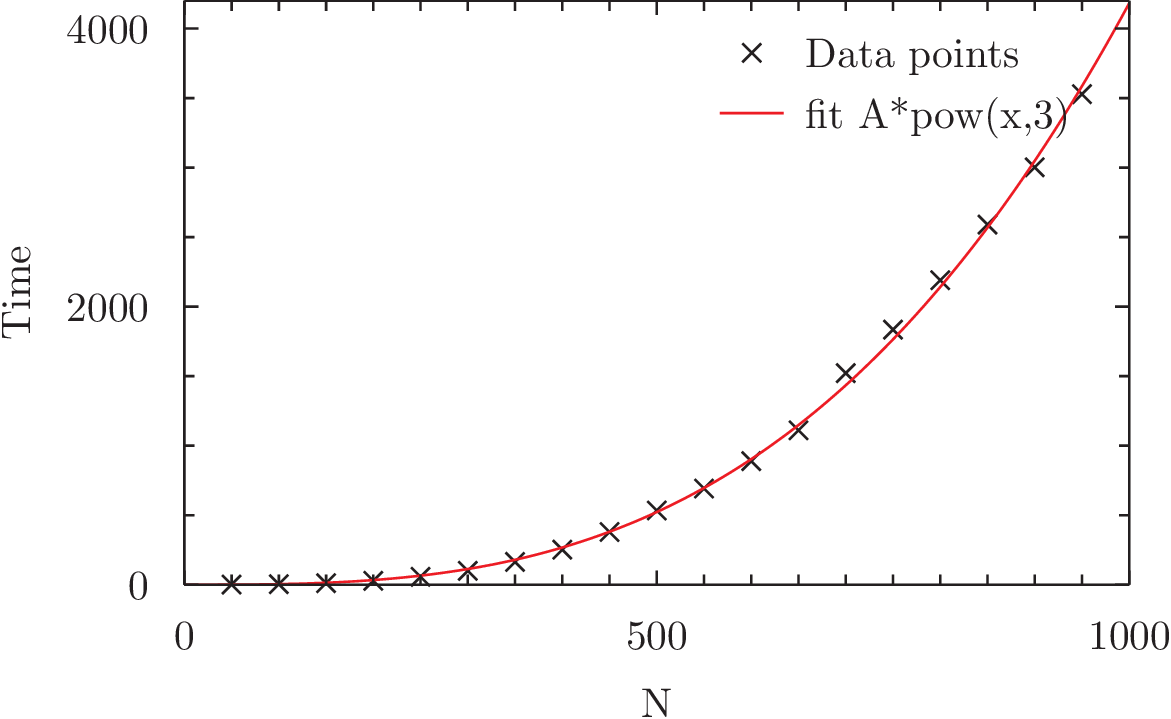
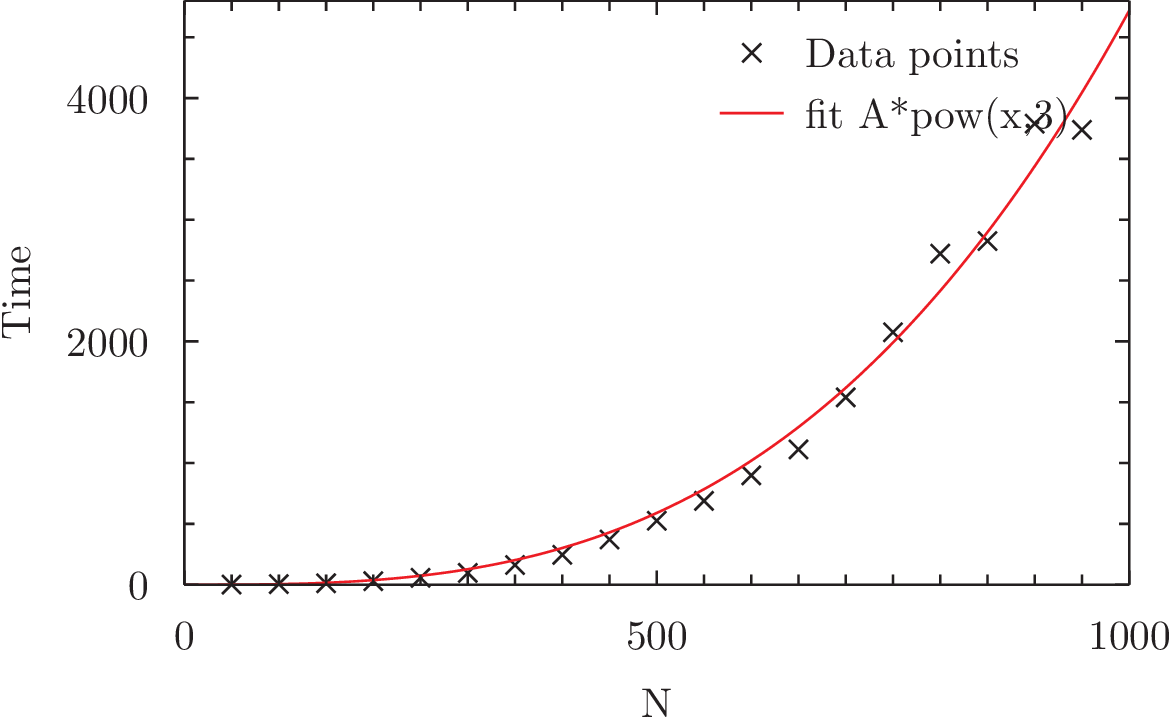
small fix in invers

diff --git a/homework/LinearEq/C/QRGS.cs b/homework/LinearEq/C/QRGS.cs
@@ -38,7 +38,7 @@ public class QRGS{
 		int n = Q.size1; 
 		int m = Q.size2;
 		var B = new matrix(m,n);
-		var I = id(n); 
+		var I = id(m); 
 		for(int i = 0; i<n; i++)
 			B[i] = solve(I[i]);
 		return B;
